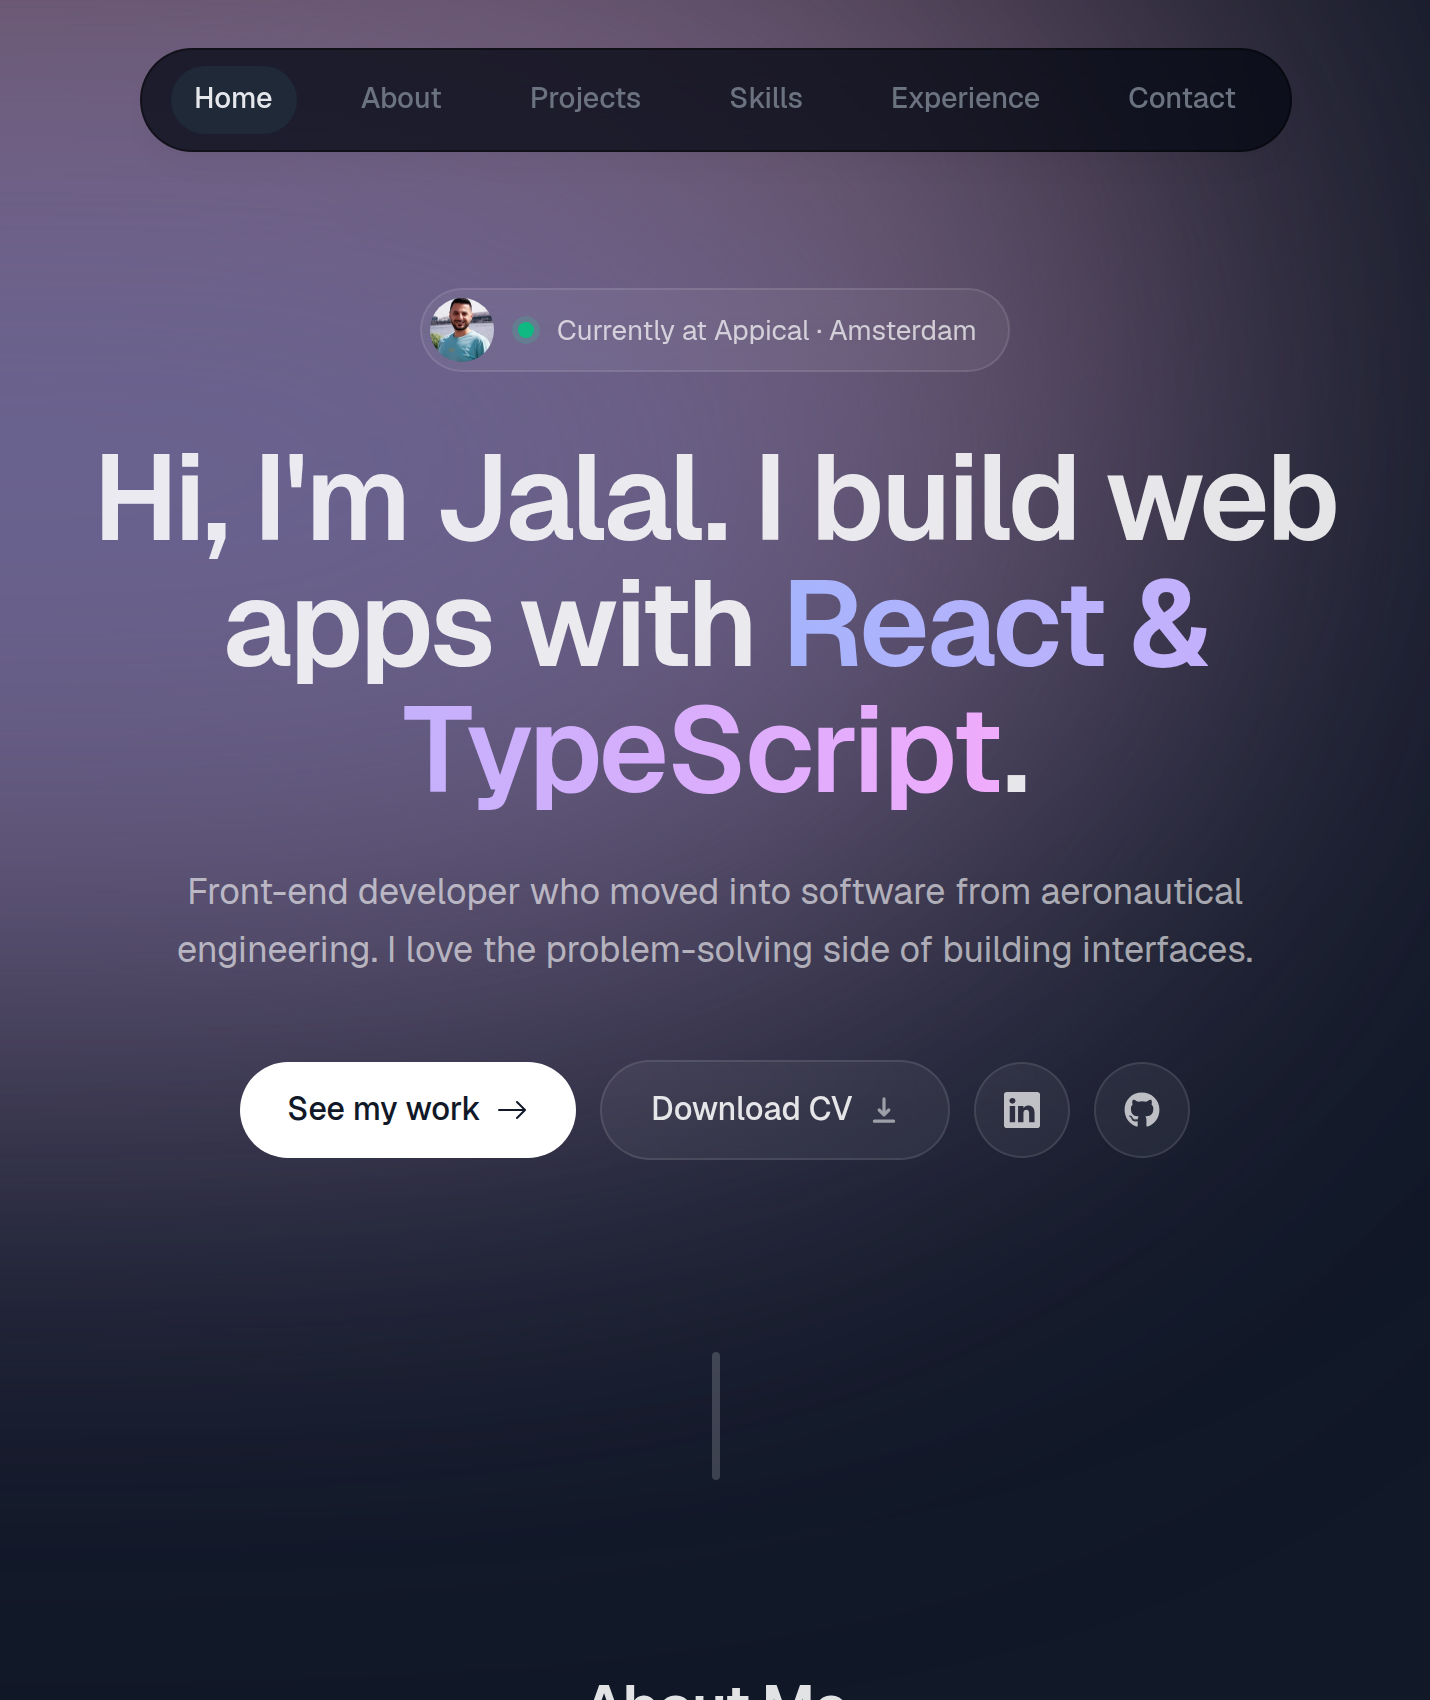
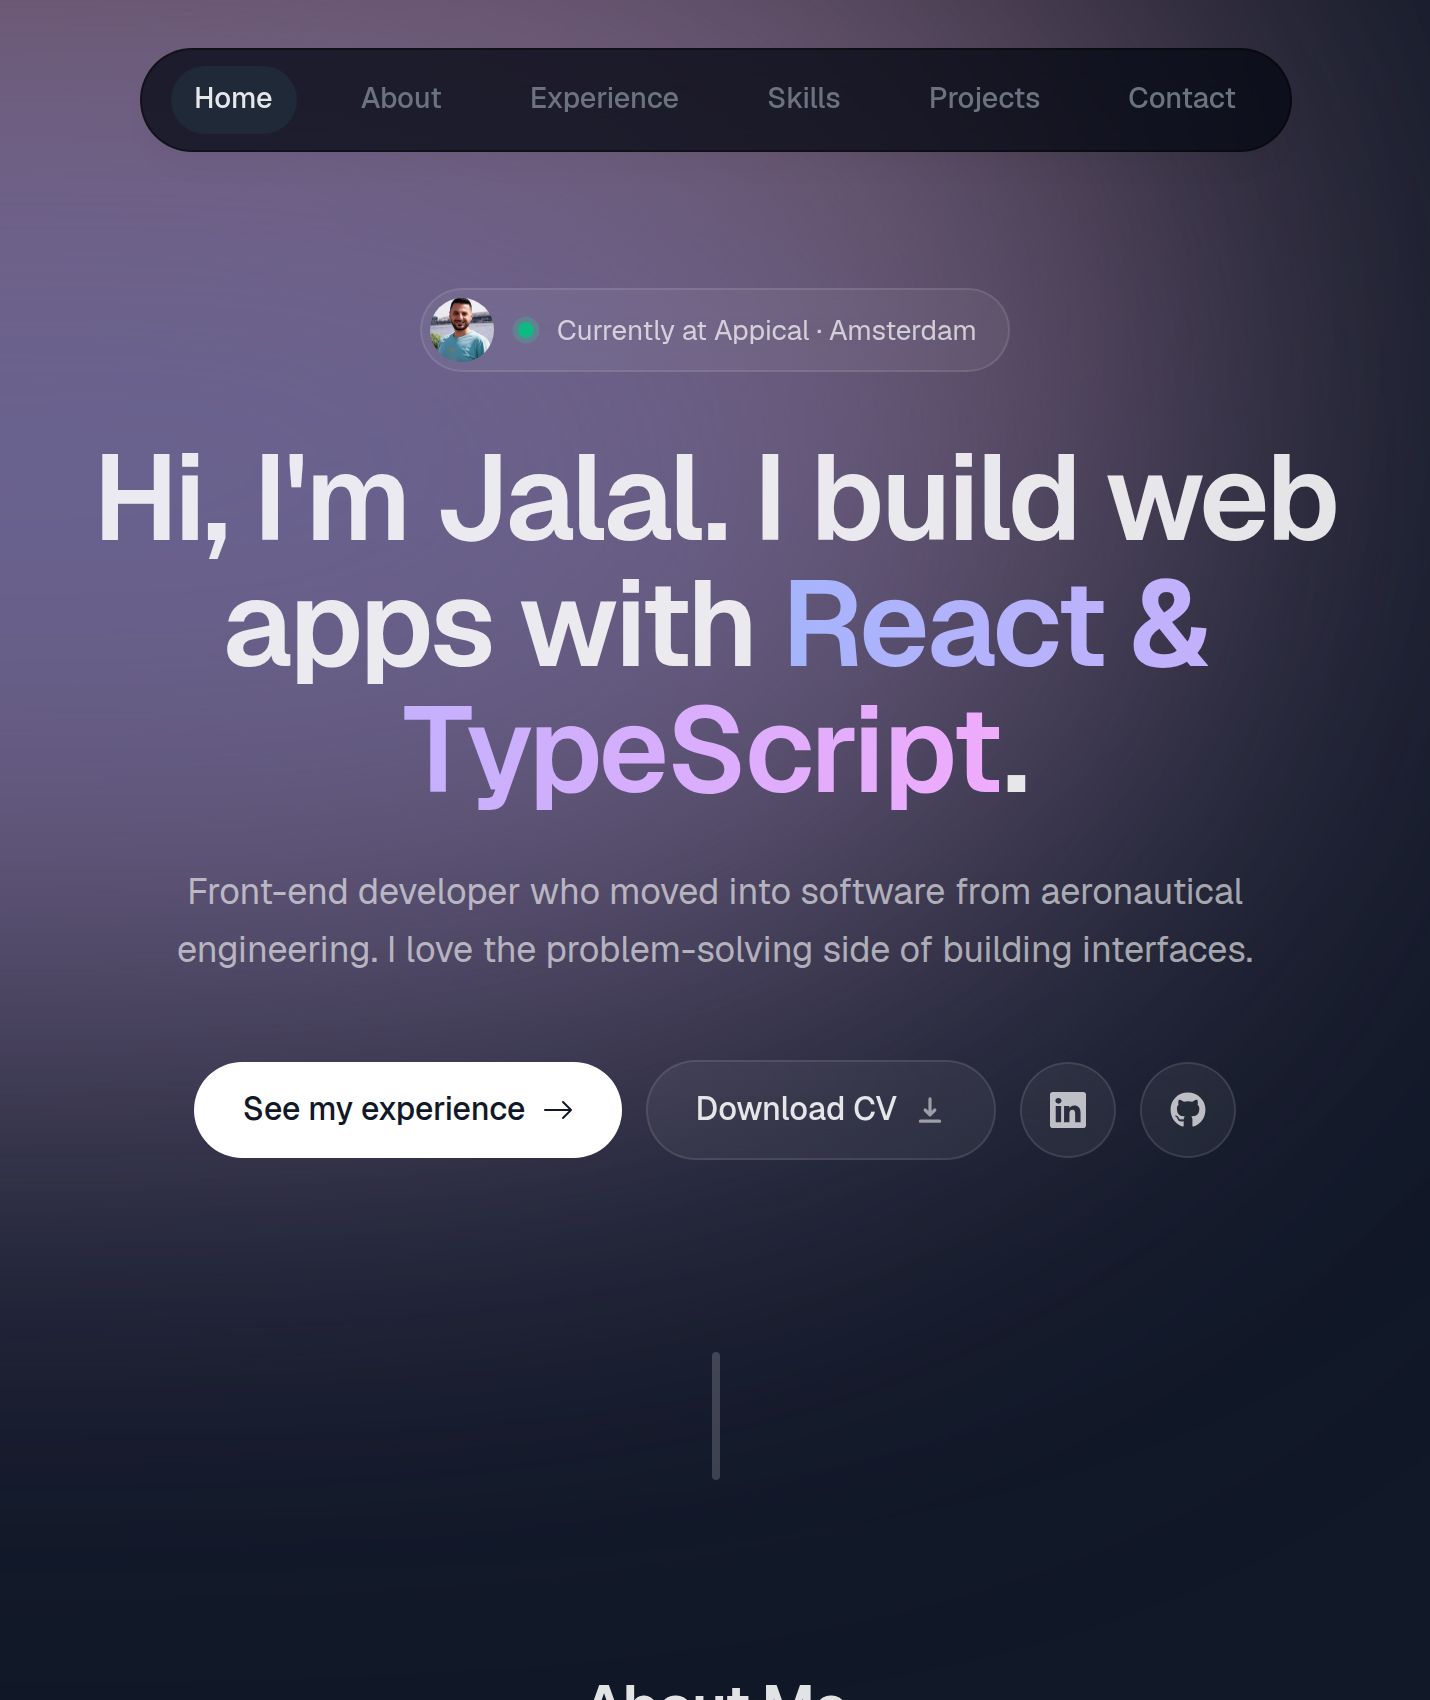
Put experience before projects and feature the portfolio
The projects are small, so the Appical role should lead.

- Page and nav order: Home, About, Experience, Skills, Projects, Contact
- Hero primary button goes to Experience ("See my experience")
- Rename the section to "Side Projects", feature Portfolio with a
  description of what it is built with, and give the two smaller
  projects shorter images and tighter padding
- Re-capture the Portfolio screenshot with the new nav order

diff --git a/lib/data.ts b/lib/data.ts
@@ -12,16 +12,16 @@ export const links = [
     hash: "#about",
   },
   {
-    name: "Projects",
-    hash: "#projects",
+    name: "Experience",
+    hash: "#experience",
   },
   {
     name: "Skills",
     hash: "#skills",
   },
   {
-    name: "Experience",
-    hash: "#experience",
+    name: "Projects",
+    hash: "#projects",
   },
   {
     name: "Contact",
@@ -92,33 +92,33 @@ export const earlierExperienceData = [
 
 export const projectsData = [
   {
+    title: "Portfolio",
+    description:
+      "This site, built with Next.js 16 and React 19: a server-action contact form that sends through Resend, dark mode without a flash on load, scroll-aware navigation and a responsive, accessible layout.",
+    link: "https://jalalhabeeb.vercel.app/",
+    repo: "https://github.com/JalalHabeeb/my-portfolio",
+    tags: ["Next.js", "React", "TypeScript", "Tailwind", "Framer Motion", "Resend"],
+    imageUrl: myPortfolioImg,
+    featured: true,
+  },
+  {
     title: "Promptopia",
     description:
-      "An open-source AI prompting tool for discovering, creating and sharing creative prompts, with NextAuth sign-in and a MongoDB backend.",
+      "An AI prompt-sharing app for discovering, creating and sharing prompts, with NextAuth sign-in and a MongoDB backend.",
     link: "https://promptopia-three-pink.vercel.app/",
     repo: "https://github.com/JalalHabeeb/promptopia",
-    tags: ["Next.js", "React", "Tailwind", "NextAuth", "MongoDB"],
+    tags: ["Next.js", "NextAuth", "MongoDB"],
     imageUrl: promptopiaImg,
-    featured: true,
+    featured: false,
   },
   {
     title: "Icon Photography",
     description:
-      "A website for a client who is a photographer and videographer for special occasions.",
+      "A website for a photographer and videographer who covers special occasions.",
     link: "https://icon-photography.vercel.app/",
     repo: "https://github.com/JalalHabeeb/icon-photography",
-    tags: ["Next.js", "React", "Tailwind"],
+    tags: ["Next.js", "Tailwind"],
     imageUrl: iconPhotographyImg,
-    featured: false,
-  },
-  {
-    title: "Portfolio",
-    description:
-      "This site: a single-page portfolio with a server-action contact form, dark mode and scroll-aware navigation.",
-    link: "https://jalalhabeeb.vercel.app/",
-    repo: "https://github.com/JalalHabeeb/my-portfolio",
-    tags: ["Next.js", "TypeScript", "Tailwind", "Framer Motion"],
-    imageUrl: myPortfolioImg,
     featured: false,
   },
 ] as const;

diff --git a/components/project.tsx b/components/project.tsx
@@ -33,8 +33,10 @@ const Project = ({
     >
       <div
         className={clsx(
-          "relative aspect-[16/10] overflow-hidden bg-gray-100 dark:bg-white/5",
-          featured && "sm:order-2 sm:aspect-auto sm:min-h-[20rem]"
+          "relative overflow-hidden bg-gray-100 dark:bg-white/5",
+          featured
+            ? "aspect-[16/10] sm:order-2 sm:aspect-auto sm:min-h-[20rem]"
+            : "aspect-[2/1]"
         )}
       >
         <Image
@@ -48,7 +50,12 @@ const Project = ({
         />
       </div>
 
-      <div className="flex flex-1 flex-col p-6 sm:p-8">
+      <div
+        className={clsx(
+          "flex flex-1 flex-col p-6",
+          featured && "sm:p-8"
+        )}
+      >
         {featured && (
           <p className="mb-2 text-xs font-medium uppercase tracking-wider text-indigo-600 dark:text-indigo-300">
             Featured

diff --git a/components/intro.tsx b/components/intro.tsx
@@ -61,14 +61,14 @@ const Intro = () => {
 
         <div className="mt-10 flex flex-col items-center gap-3 sm:flex-row">
           <Link
-            href="#projects"
+            href="#experience"
             className="group flex items-center gap-2 rounded-full bg-gray-900 px-6 py-3 font-medium text-white transition hover:bg-gray-800 dark:bg-white dark:text-gray-900 dark:hover:bg-white/90"
             onClick={() => {
-              setActiveSection("Projects");
+              setActiveSection("Experience");
               setTimeOfLastClick(Date.now());
             }}
           >
-            See my work
+            See my experience
             <BsArrowRight className="transition group-hover:translate-x-1" />
           </Link>
           <a

diff --git a/components/projects.tsx b/components/projects.tsx
@@ -15,7 +15,7 @@ const Projects = () => {
       id="projects"
       className="mb-28 w-full max-w-[56rem] scroll-mt-28"
     >
-      <SectionHeading>My Projects</SectionHeading>
+      <SectionHeading>Side Projects</SectionHeading>
 
       <div className="grid gap-4 sm:grid-cols-2">
         {projectsData.map((project) => (

diff --git a/app/page.tsx b/app/page.tsx
@@ -12,9 +12,9 @@ export default function Home() {
       <Intro />
       <SectionDivider />
       <About />
-      <Projects />
-      <Skills />
       <Experience />
+      <Skills />
+      <Projects />
       <Contact />
     </main>
   );
